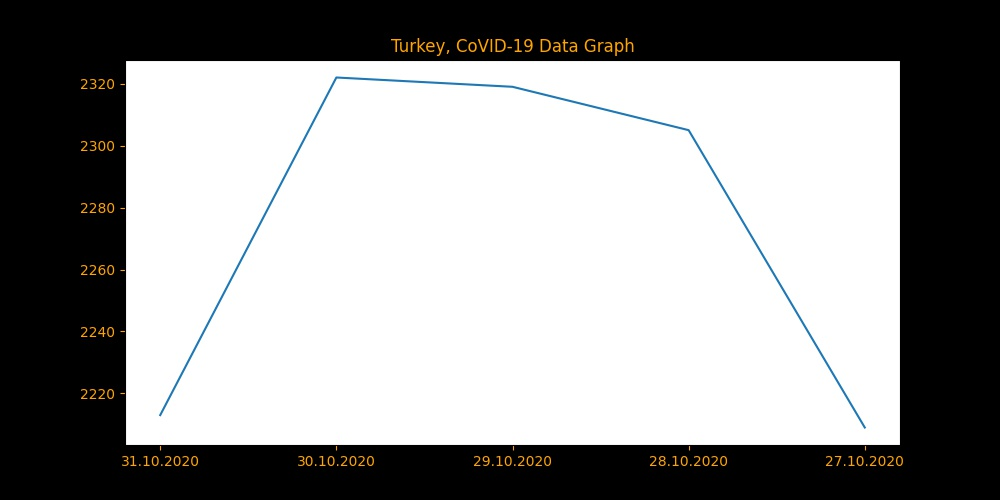
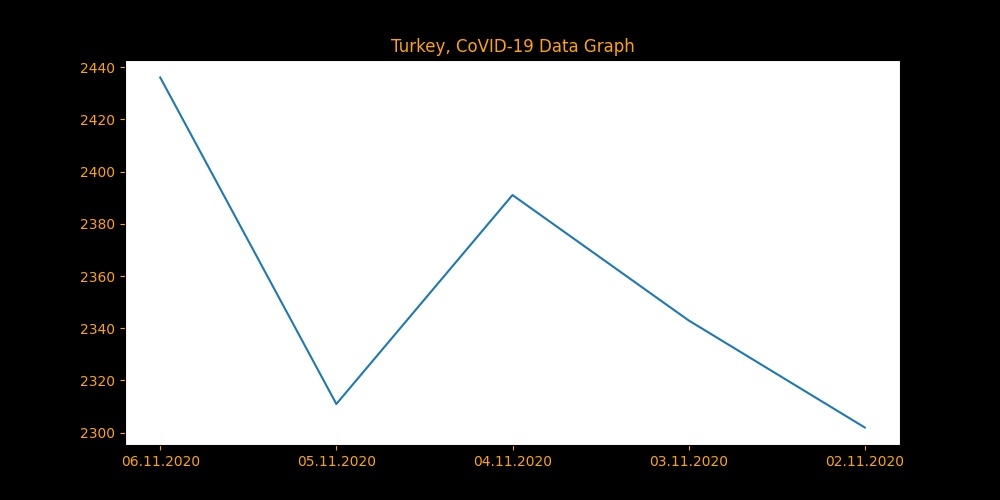
:notebook: 06.11.2020 Update

diff --git a/README_TR.md b/README_TR.md
@@ -11,18 +11,18 @@ Burada, Türkiye'nin [COVID-19 (Koronavirüs) (Hakkında bilgi almak için tıkl
 Not: Bütün veriler, Türkiye Sağlık Bakanlığı'ndan sağlanmaktadır. Eğer veriler güncel değilse, bu büyük ihtimal [devletin web sitesi](https://covid19.saglik.gov.tr) ile alakalıdır. Tamamdır, o zaman başlayalım!
 
 Öncelikle bugünün verileri:
-## :calendar: 31.10.2020 Koronavirüs Verileri:
+## :calendar: 06.11.2020 Koronavirüs Verileri:
 | Veri Tipi         | Bugünün Verileri   | Toplam Veriler     |
 | :---              |    :----           |     :---           |
-| Testler           | 124,109    | 14,085,633    |
-| Vakalar           | 2,213   | 373,951    |
-| Tedaviler         | 1,506    | 324,993|
-| Vefatlar          | 75| 10,252   |
+| Testler           | 145,241    | 14,951,143    |
+| Vakalar           | 2,436   | 388,063    |
+| Tedaviler         | 1,914    | 335,723|
+| Vefatlar          | 83| 10,730   |
 
-:clock9: `Son Güncelleme: 01.11.2020 01:58`
+:clock9: `Son Güncelleme: 07.11.2020 00:43`
 \
 \
-Ülkemiz ile alakalı gönderilen verilerde bir gariplik var. Devletin verdiği toplam veriler ile günlük veriler arasında uyuşmazlık mevcut. Eğer her günün verisini birbirine eklersek, Bizim hesaplamamız vakalar için **1416** tane daha az çıkıyor. Bu, ölümler için **0** , testler için **83819** ve tedavi olanlar için **1022** . Neden devletimiz böyle bir şey yapıyor anlamıyoruz. YOKSA VERİLER YANLIŞ MI??!?\
+Ülkemiz ile alakalı gönderilen verilerde bir gariplik var. Devletin verdiği toplam veriler ile günlük veriler arasında uyuşmazlık mevcut. Eğer her günün verisini birbirine eklersek, Bizim hesaplamamız vakalar için **1193** tane daha az çıkıyor. Bu, ölümler için **8** , testler için **104951** ve tedavi olanlar için **1430** . Neden devletimiz böyle bir şey yapıyor anlamıyoruz. YOKSA VERİLER YANLIŞ MI??!?\
 Neyse tamam, hadi grafikler hakkında konuşalım. Dünle bu günün karşılaştırma grafiği:\
 ![Graph](https://github.com/lysep-corp/COVID-19/blob/master/Graphs/YESTERDAY_COMP_TODAY_TR.jpeg?raw=true)
 
@@ -30,7 +30,7 @@ Neyse tamam, hadi grafikler hakkında konuşalım. Dünle bu günün karşılaş
 ---
 ### Burada başka bir problem var!!
 Devlet, **_YOĞUN BAKIM_** ve **_ENTÜBE_** verilerini **_29.07.2020 (son veri 28.07.2020 tarihinde)_** tarihinden beri paylaşmıyor.\
-<img src="https://github.com/lysep-corp/COVID-19/blob/master/Images/StoppedData.png?raw=true">
+<img src="https://github.com/lysep-corp/COVID-19/blob/master/Images/StoppedData.png?raw=true" width="500">
 
 ---
 

diff --git a/README.md b/README.md
@@ -11,18 +11,18 @@ In this we will gonna show you where is the Turkey going about [COVID-19 Pandemi
 Note: All the data coming from Türk Ministery of Health's public website. If datas are not up-to-date, probably this is about the [goverment's website](https://covid19.saglik.gov.tr) if our server's are not die. Okey, Let's start than!
 
 First today's datas:
-## :calendar: 31.10.2020 Corona virus Datas:
+## :calendar: 06.11.2020 Corona virus Datas:
 | Data Type         | Today's Datas      | All Time Data      |
 | :---              |    :----           |     :---           |
-| Tests             | 124,109    | 373,951    |
-| Cases             | 2,213   | 10,252   |
-| Cures             | 1,506    | 14,085,633    |
-| Deaths            | 75| 324,993|
+| Tests             | 145,241    | 388,063    |
+| Cases             | 2,436   | 10,730   |
+| Cures             | 1,914    | 14,951,143    |
+| Deaths            | 83| 335,723|
 
-:clock9: `Last Update: 01.11.2020 01:58`
+:clock9: `Last Update: 07.11.2020 00:43`
 \
 \
-There is something weird going on about our country's data. There is a little bit difference about goverment's all time data and daily datas. If we gonna add everyday's data to each other, Our calculation is **1416** less than the goverment's case calculation. It's **0** for deaths, **83819** for tests and **1022** for cured person count. We don't know why our country is doing that. ARE THE DATAS WRONG??!?\
+There is something weird going on about our country's data. There is a little bit difference about goverment's all time data and daily datas. If we gonna add everyday's data to each other, Our calculation is **1193** less than the goverment's case calculation. It's **8** for deaths, **104951** for tests and **1430** for cured person count. We don't know why our country is doing that. ARE THE DATAS WRONG??!?\
 Okey, let's talk about the graphs. Here is today's data is compare with yesterdays:\
 ![YESTERDAY_COMP_TODAY_EN](https://github.com/lysep-corp/COVID-19/blob/master/Graphs/YESTERDAY_COMP_TODAY_EN.jpeg?raw=true)
 
